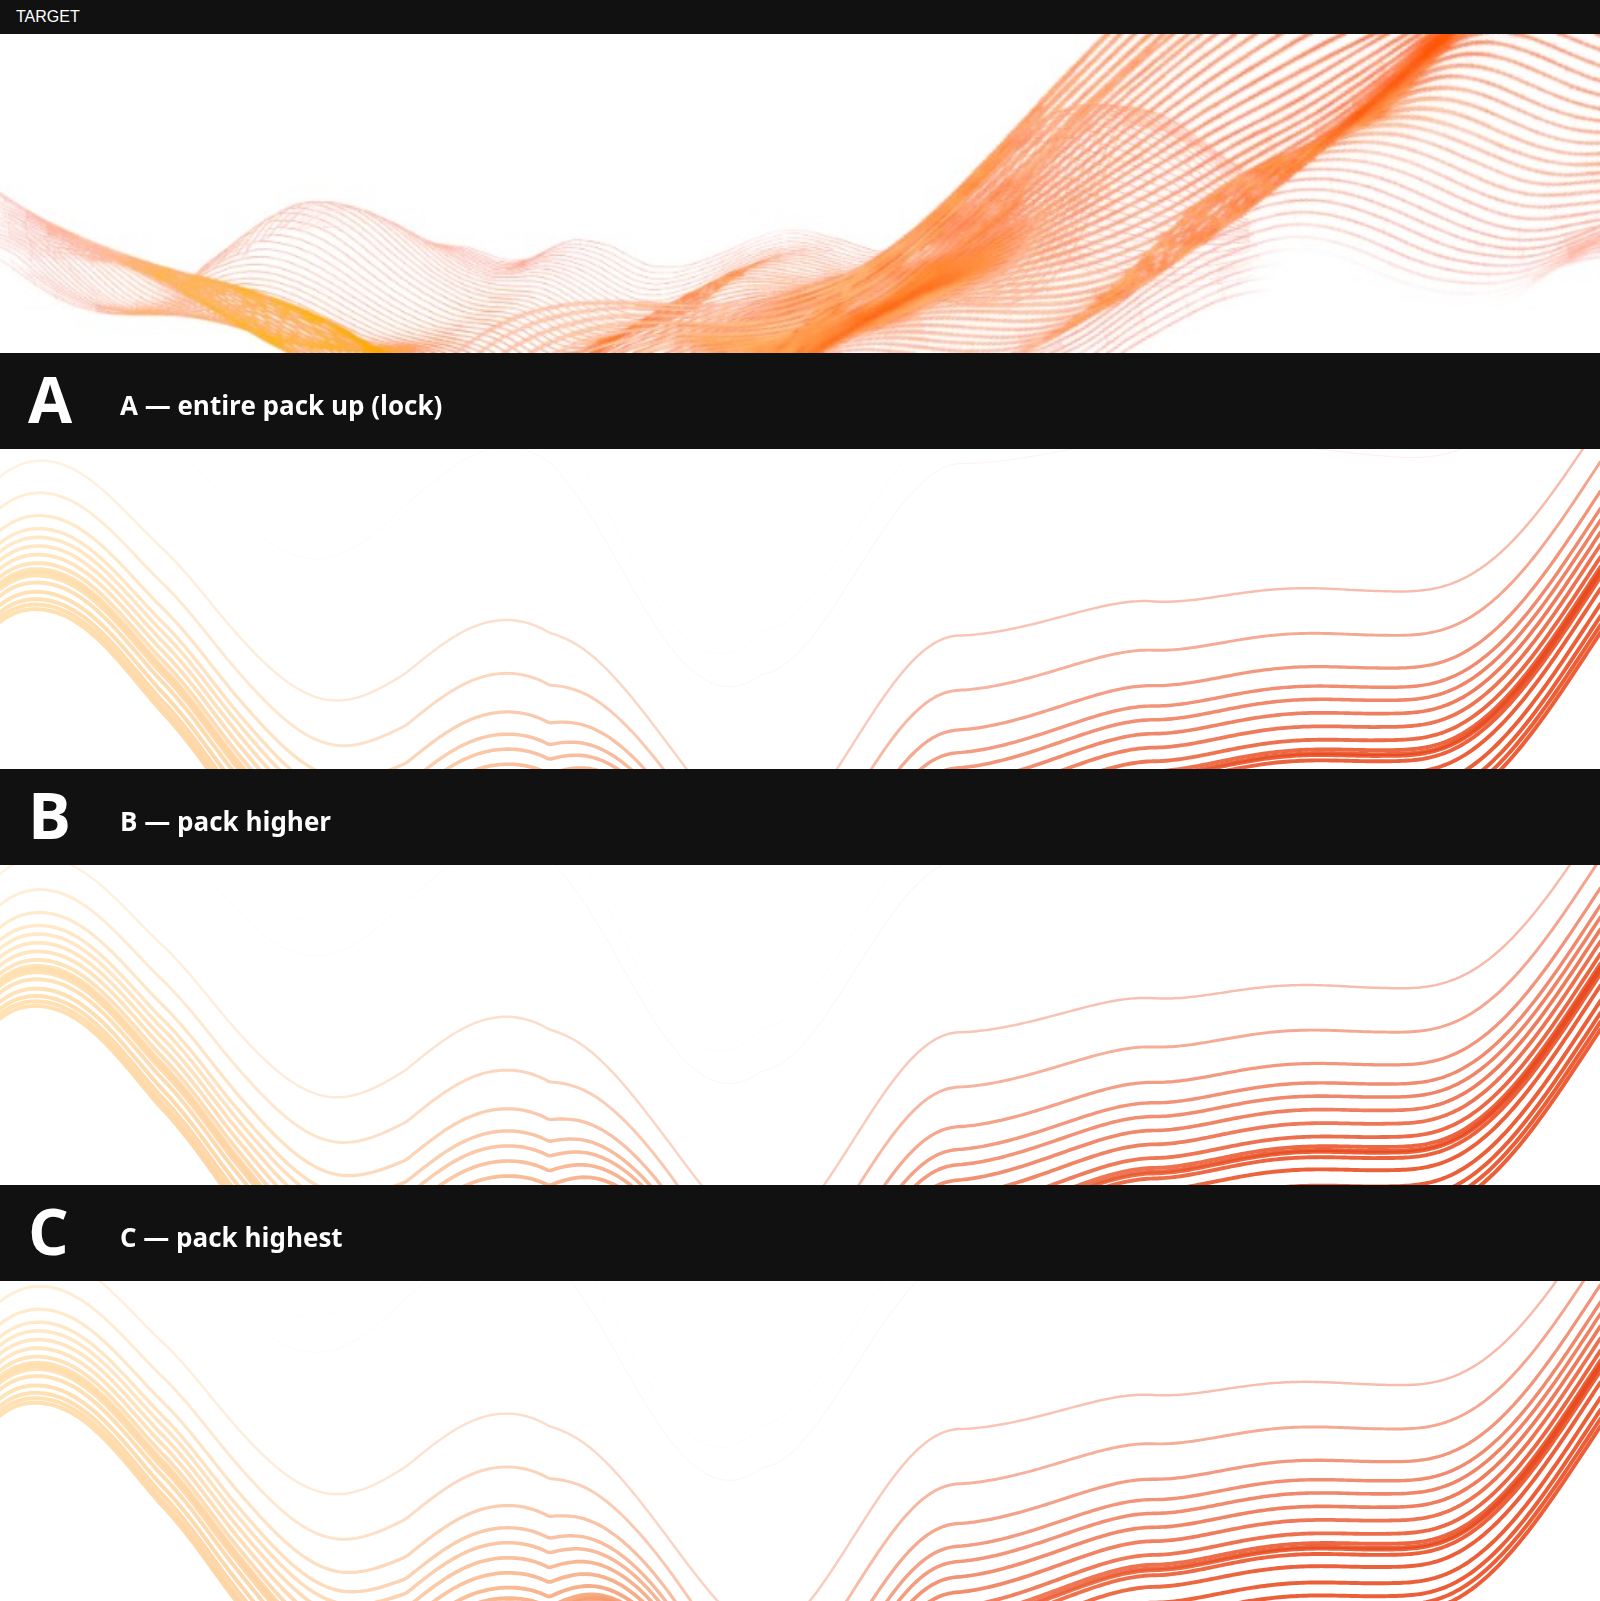
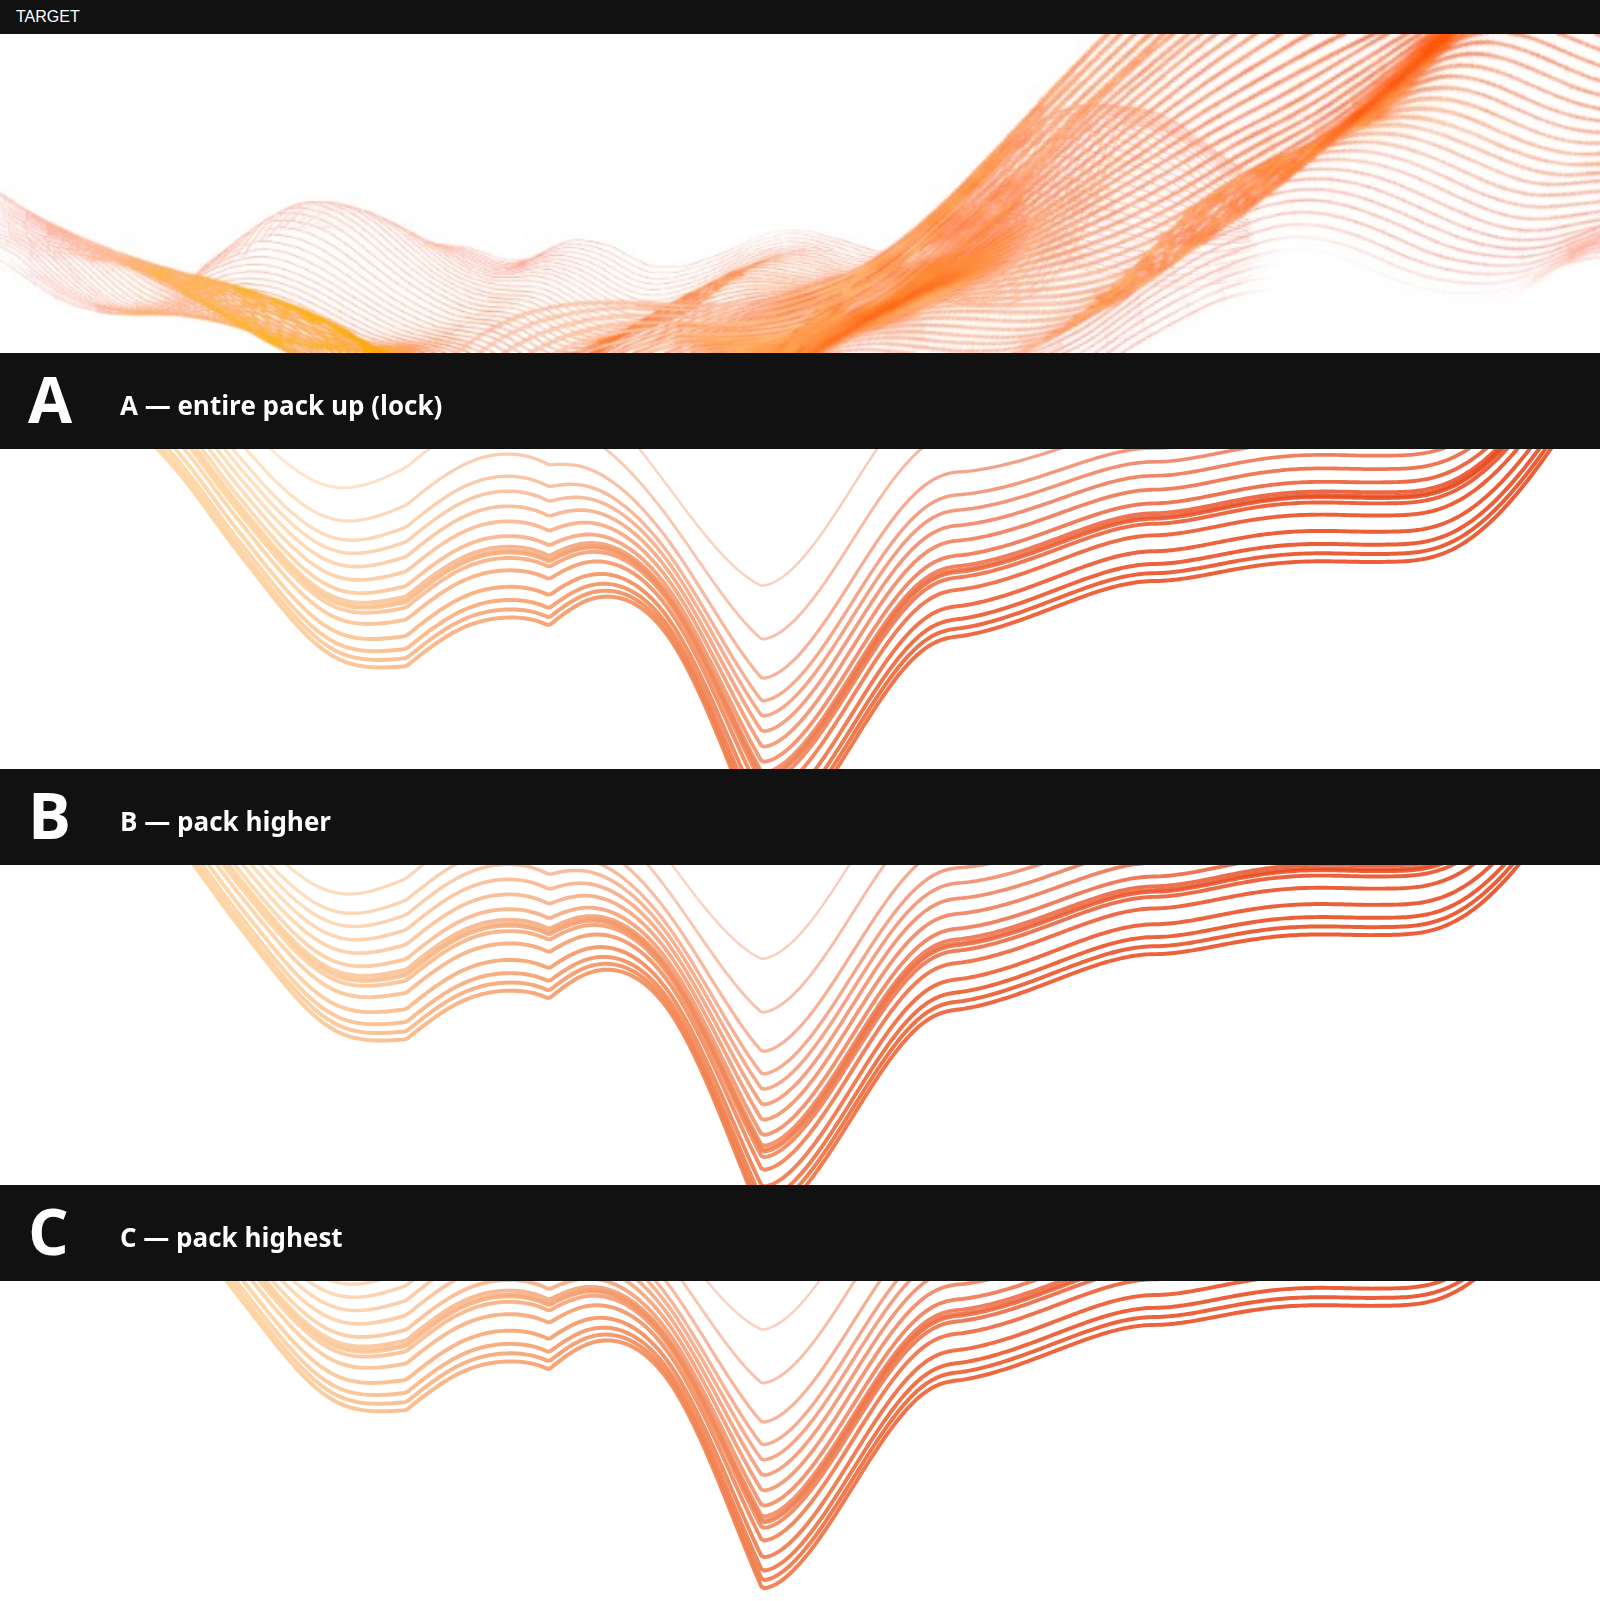
fix(lab): iterate Y align so visible Twizzler mass moves up (#CF-16)
Tall packs were clipping such that all-points centering left on-screen
ink low; iterate visible-mean alignment to centerY.

diff --git a/apps/lab/src/twizzler.ts b/apps/lab/src/twizzler.ts
@@ -702,18 +702,23 @@ export function buildTwizzlerLines(
     });
   }
 
-  // Move the ENTIRE pack so geometric average lands at centerY (lower = higher on screen).
-  let ySum = 0;
-  let yCount = 0;
-  for (const line of lines) {
-    for (const point of line.points) {
-      ySum += point.y;
-      yCount += 1;
+  // Shift the whole pack until the VISIBLE ink average sits at centerY (lower = higher on screen).
+  // Iterate because a tall pack clips; one-shot all-points mean leaves on-screen mass too low.
+  const targetY = pixelHeight * settings.centerY;
+  for (let iter = 0; iter < 4; iter += 1) {
+    let ySum = 0;
+    let yCount = 0;
+    for (const line of lines) {
+      for (const point of line.points) {
+        if (point.y >= 0 && point.y <= pixelHeight) {
+          ySum += point.y;
+          yCount += 1;
+        }
+      }
     }
-  }
-  if (yCount > 0) {
-    const targetY = pixelHeight * settings.centerY;
+    if (yCount <= 0) break;
     const shift = targetY - ySum / yCount;
+    if (Math.abs(shift) < 0.25) break;
     for (const line of lines) {
       for (const point of line.points) {
         point.y += shift;
